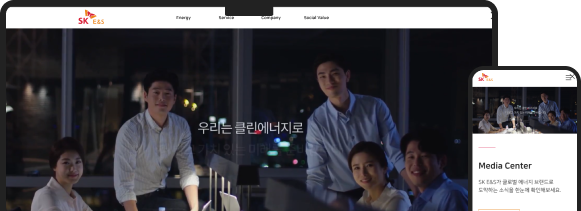
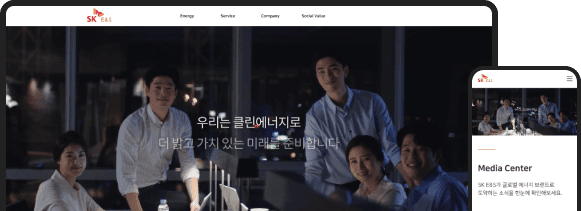
design - project 수정 project 반응형 css 수정, img 수정

Changed region(s): [[0.0, 0.0284, 0.9604, 1.0], [0.7745, 0.3412, 1.0, 0.6825], [0.8055, 0.6825, 0.8675, 0.7109]]

diff --git a/index.html b/index.html
@@ -299,7 +299,7 @@
                         </div>
 
                         <div class="slider-img">
-                            <img src="./images/project-img/sk-img.png" alt="sk-img">
+                            <img src="./images/project-img/kji-img.png" alt="kji-img">
                         </div>
                     </div>
                 </div>
@@ -373,7 +373,7 @@
                         </div>
 
                         <div class="slider-img">
-                            <img src="./images/project-img/sk-img.png" alt="sk-img">
+                            <img src="./images/project-img/kfo-img.png" alt="kfo-img">
                         </div>
                     </div>
                 </div>
@@ -410,7 +410,7 @@
                         </div>
 
                         <div class="slider-img">
-                            <img src="./images/project-img/sk-img.png" alt="sk-img">
+                            <img src="./images/project-img/dokdo-img.png" alt="dokdo-img">
                         </div>
                     </div>
                 </div>
@@ -446,7 +446,7 @@
                         </div>
 
                         <div class="slider-img">
-                            <img src="./images/project-img/sk-img.png" alt="sk-img">
+                            <img src="./images/project-img/metaverse-img.png" alt="metaverse-img">
                         </div>
                     </div>
                 </div>
@@ -518,7 +518,7 @@
                         </div>
 
                         <div class="slider-img">
-                            <img src="./images/project-img/sk-img.png" alt="sk-img">
+                            <img src="./images/project-img/discovery-img.png" alt="discovery-img">
                         </div>
                     </div>
                 </div>
@@ -554,7 +554,7 @@
                         </div>
 
                         <div class="slider-img">
-                            <img src="./images/project-img/sk-img.png" alt="sk-img">
+                            <img src="./images/project-img/strum-img.png" alt="strum-img">
                         </div>
                     </div>
                 </div>

diff --git a/css/responsive.css b/css/responsive.css
@@ -132,7 +132,7 @@
     }
 
     .slide-inner {
-        width: 100%;
+        max-width: 100%;
         padding: 40px 20px 0;
     }
 
@@ -147,10 +147,6 @@
 
     .slide-info ul {
         flex-wrap: wrap;
-    }
-
-    .slider-img {
-        max-width: 620px;
     }
 
     /* contact */
@@ -409,11 +405,12 @@
     }
 
     .swiper-slide.project-slide {
-        height: 460px;
+        height: auto;
     }
 
     .slide-inner {
         padding-top: 20px;
+        gap: 60px;
     }
 
     .slide-logo {
